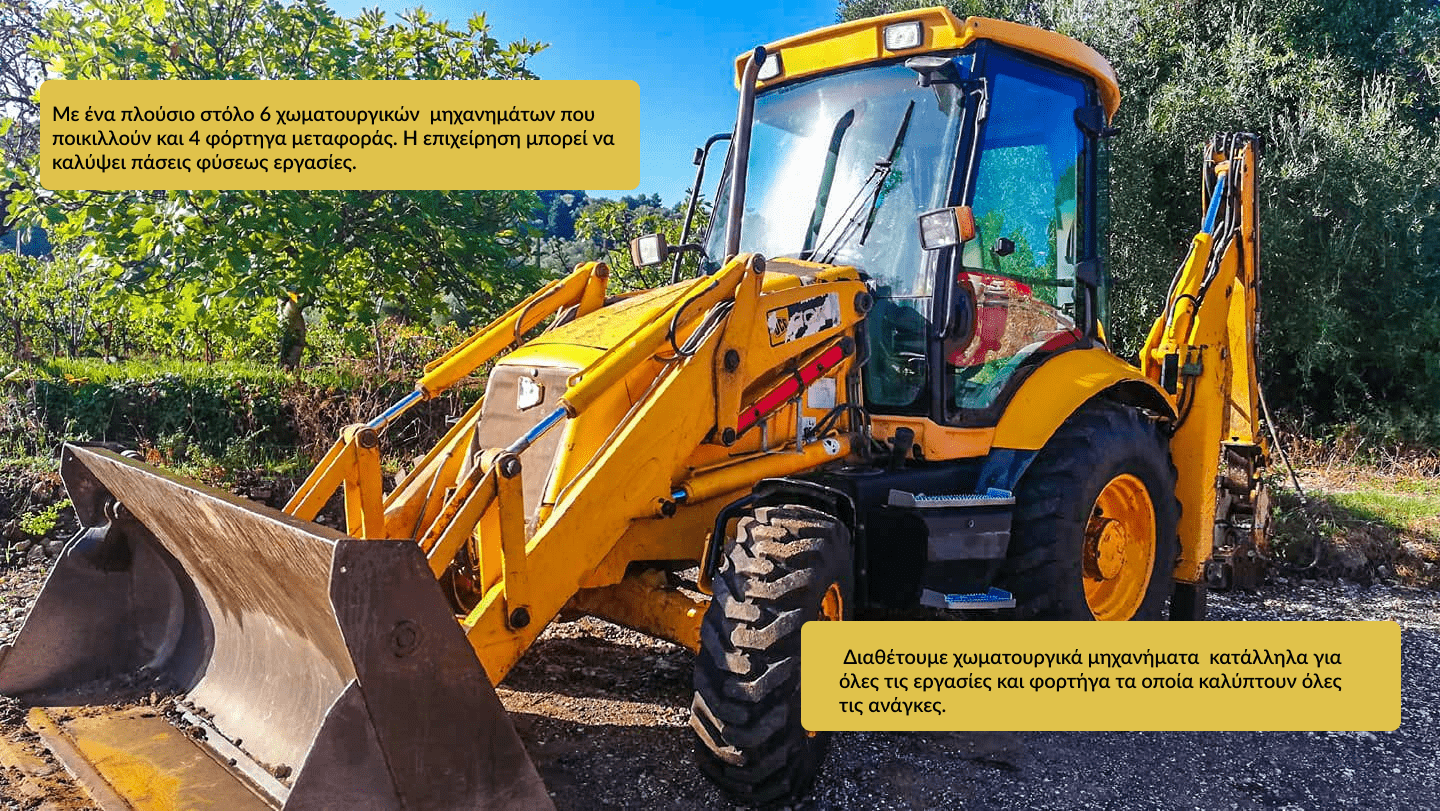
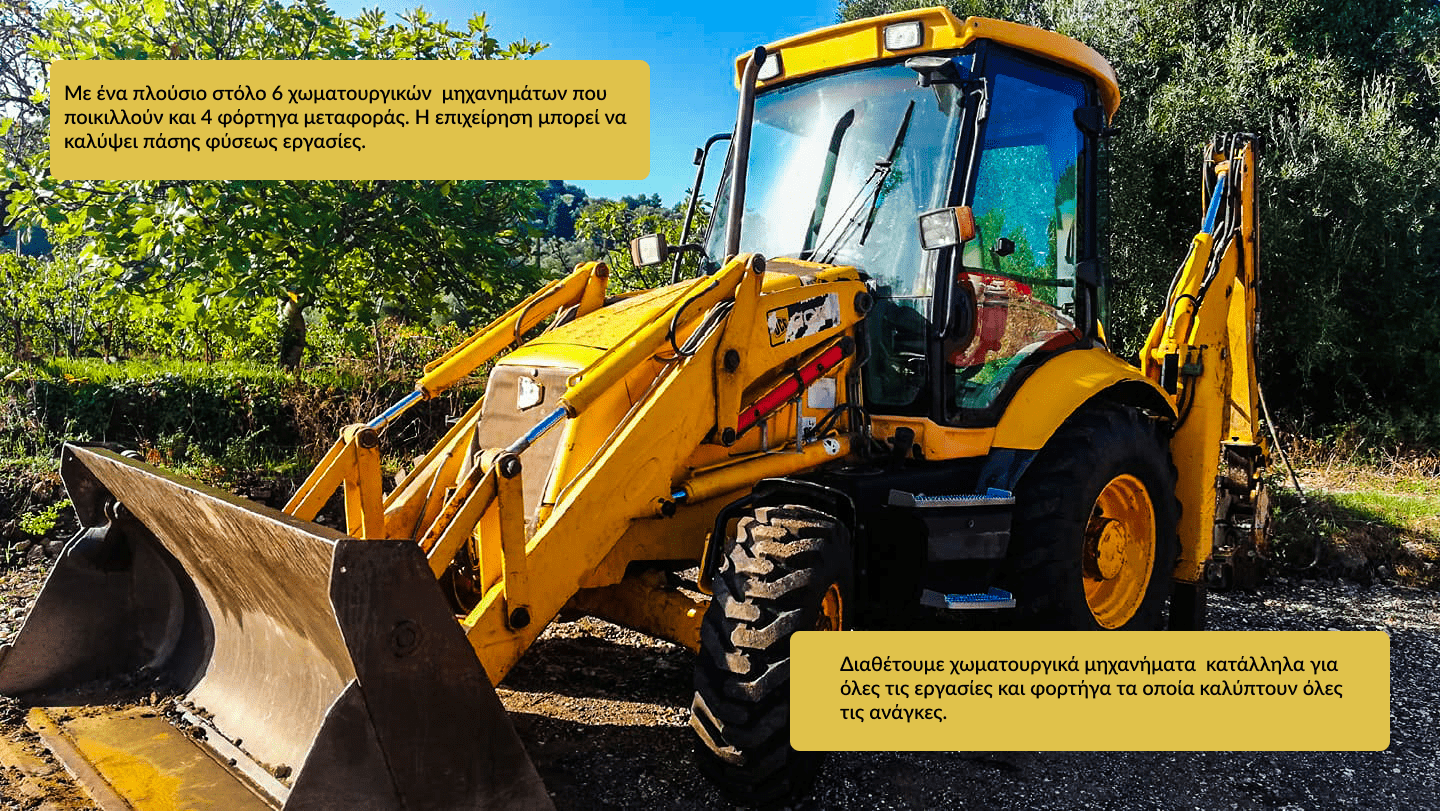
started footer

diff --git a/index.html b/index.html
@@ -11,6 +11,8 @@
     <link rel="stylesheet" href="css/head_foot.css">
     <link rel="stylesheet" href="css/main.css">
     <link rel="stylesheet" href="css/fleetGallery.css">
+    <!--footer icons-->
+    <script src="https://kit.fontawesome.com/54d0b8d849.js" crossorigin="anonymous"></script>
 
 </head>
 
@@ -129,15 +131,39 @@
         </div>
 
         <!--ANIMATED MESSAGES-->
-       <div class="animMessages-wrapper">
-        <div class="animMessages" id="animMessages">
-            <img class="section4Back" id="greekBack">
+        <div class="animMessages-wrapper">
+            <div class="animMessages" id="animMessages">
+                <img class="section4Back" id="greekBack">
+            </div>
         </div>
-       </div>
 
     </div>
     <footer id="footer">
-
+        <h4>Επικοινωνία</h4>
+        <table id="contact">
+            <tr>
+                <td><i class="fas fa-phone-alt"></i></td>
+                <td>+30 6944306202</td>
+            </tr>
+            <tr>
+                <td><i class="fas fa-envelope"></i></td>
+                <td><a href="mailto:grammenosnikos@gmail.com">grammenosnikos@gmail.com</a></td>
+            </tr>
+            <tr>
+                <td><i class="fab fa-facebook"></i></td>
+                <td><a href="https://www.facebook.com/Grammenos-Trucks-101673464587540/" target="_blank">Grammenos
+                        Trucks</a></td>
+            </tr>
+        </table>
+        <div id="map">
+            <a href="https://www.google.com/maps/place/Sinarades+490+84,+Greece/@39.5652196,19.8608065,1551a,35y,270h,38.99t/data=!3m1!1e3!4m5!3m4!1s0x135b58b7bd778eed:0xd3de3a10c5673d20!8m2!3d39.5665112!4d19.8473382"
+                target="_blank"><img src="img/map.png"></a> <br>
+            <span id="developer">
+                Develop by
+                <a href="https://efimethodiou.com/" target="_blank"><img src="img/developerlogo.png"></a>
+               &hairsp;<i class="far fa-copyright"></i>2021
+            </span>
+        </div>
     </footer>
 
 

diff --git a/en/grammenos_trucks.html b/en/grammenos_trucks.html
@@ -11,6 +11,8 @@
     <link rel="stylesheet" href="../css/head_foot.css">
     <link rel="stylesheet" href="../css/main.css">
     <link rel="stylesheet" href="../css/fleetGallery.css">
+    <!--footer icons-->
+    <script src="https://kit.fontawesome.com/54d0b8d849.js" crossorigin="anonymous"></script>
 </head>
 
 <body>
@@ -134,7 +136,32 @@
             </div>
         </div>
     </div>
-    <footer>
+    <footer id="footer">
+        <h4>Contact</h4>
+        <table id="contact">
+            <tr>
+                <td><i class="fas fa-phone-alt"></i></td>
+                <td>+30 6944306202</td>
+            </tr>
+            <tr>
+                <td><i class="fas fa-envelope"></i></td>
+                <td><a href="mailto:grammenosnikos@gmail.com">grammenosnikos@gmail.com</a></td>
+            </tr>
+            <tr>
+                <td><i class="fab fa-facebook"></i></td>
+                <td><a href="https://www.facebook.com/Grammenos-Trucks-101673464587540/" target="_blank">Grammenos
+                        Trucks</a></td>
+            </tr>
+        </table>
+        <div id="map">
+            <a href="https://www.google.com/maps/place/Sinarades+490+84,+Greece/@39.5652196,19.8608065,1551a,35y,270h,38.99t/data=!3m1!1e3!4m5!3m4!1s0x135b58b7bd778eed:0xd3de3a10c5673d20!8m2!3d39.5665112!4d19.8473382"
+                target="_blank"><img src="../img/map.png"></a> <br>
+            <span id="developer">
+                Develop by
+                <a href="https://efimethodiou.com/" target="_blank"><img src="../img/developerlogo.png"></a>
+               &hairsp;<i class="far fa-copyright"></i>2021
+            </span>
+        </div>
     </footer>
 
 

diff --git a/css/head_foot.css b/css/head_foot.css
@@ -110,19 +110,71 @@ header h1 {
 /*
 FOOTER
 */
-footer{
+footer {
   width: 100%;
   position: absolute;
-  margin-top: 100%; 
-  left: 0; 
-  height: 12vw;
+  margin-top: 100%;
+  left: 0;
+  height: 11vw;
   min-height: 50px;
-  background-color: rgb(157, 157, 157, 0.5);
-  text-align: center; 
+  background-color: rgb(157, 157, 157, 0.8);
+  text-align: center;
+}
+footer h4 {
+  margin: 1vw 4vw;
+  font-size: 1.5vw;
+  color: #e0c24b;
+  text-shadow: -1px 0 rgb(0, 0, 0, 0.15), 0 1px rgb(0, 0, 0, 0.15), 1px 0 rgb(0, 0, 0, 0.15), 0 -1px rgb(0, 0, 0, 0.15);
+  float: left;
+}
+#contact {
+  position: absolute;
+  margin: 4vw 3vw;  
+  width: 25vw;
+}
+#contact i {
+  color: #e0c24b;
+  font-size: 1.3vw;
+  text-shadow: -1px 0 rgb(0, 0, 0, 0.1), 0 1px rgb(0, 0, 0, 0.1), 1px 0 rgb(0, 0, 0, 0.1), 0 -1px rgb(0, 0, 0, 0.1);
+}
+#contact td {
+  font-size: 1.3vw;
+  float: left;
+  padding: 0px 10px;
+}
+#contact a {
+  color: black;
+  text-decoration: none;
+}
+#map {
+  float: right;
+}
+#map img{
+  margin-top: 0.5vw;
+  margin-right: 2vw;
+   width: 14vw;
+   height: auto;   
+   text-orientation: sideways-right;
+}
+#developer {
+  float: left;
+  font-size: 1.2vw;
+}
+
+#developer img{
+  width: 1.5vw;
+  margin: 0;  
+}
+
+
+@media screen and (max-width: 800px) {
+  footer {
+  border: 2px solid red;
+  }
 }
 
 @media screen and (max-width: 500px) {
-  footer{
+  footer {
     margin-top: 100vw;
   }
 }

diff --git a/css/main.css b/css/main.css
@@ -214,7 +214,7 @@ POP UP MESSAGES
   box-shadow: 0 4px 8px 0 rgba(0, 0, 0, 0.5), 0 6px 20px 0 rgba(0, 0, 0, 0.5);
   width: 100%;
   height: 100%;
-  border-radius: 5px;
+  border-radius: 10px;
 }
 #greekBack {
   width: 100%;
@@ -263,9 +263,13 @@ POP UP MESSAGES
   .animMessages {
     width: 97%;
     height: 47vw;
-    margin: 50vw 1vw;
+    margin: 50vw 1vw;     
   }
-  #greekBack {
+  .section4Back {
+    box-shadow: 0 4px 8px 0 rgba(0, 0, 0, 0.3), 0 6px 20px 0 rgba(0, 0, 0, 0.3);  
+   
+  }
+  #greekBack {    
     background: url(../img/section4gr2.png);
     background-position: center center;
     background-repeat: no-repeat;

diff --git a/script.js b/script.js
@@ -7,6 +7,14 @@ function gotoEng() {
 function gotoGr() {
   window.location.href = "../index.html";
 }
+/*PRELOAD SLIDER IMAGES */
+var image1 = new Image();
+var image2  = new Image();
+var image3  = new Image();
+image1.src = "img/slider1gr.png";
+image2.src =  "img/slider2gr.png";
+image3.src =  "img/slider3gr.png";
+
 
 /*HOME SLIDER GALLERY*/
 var slideIndex = 0;
